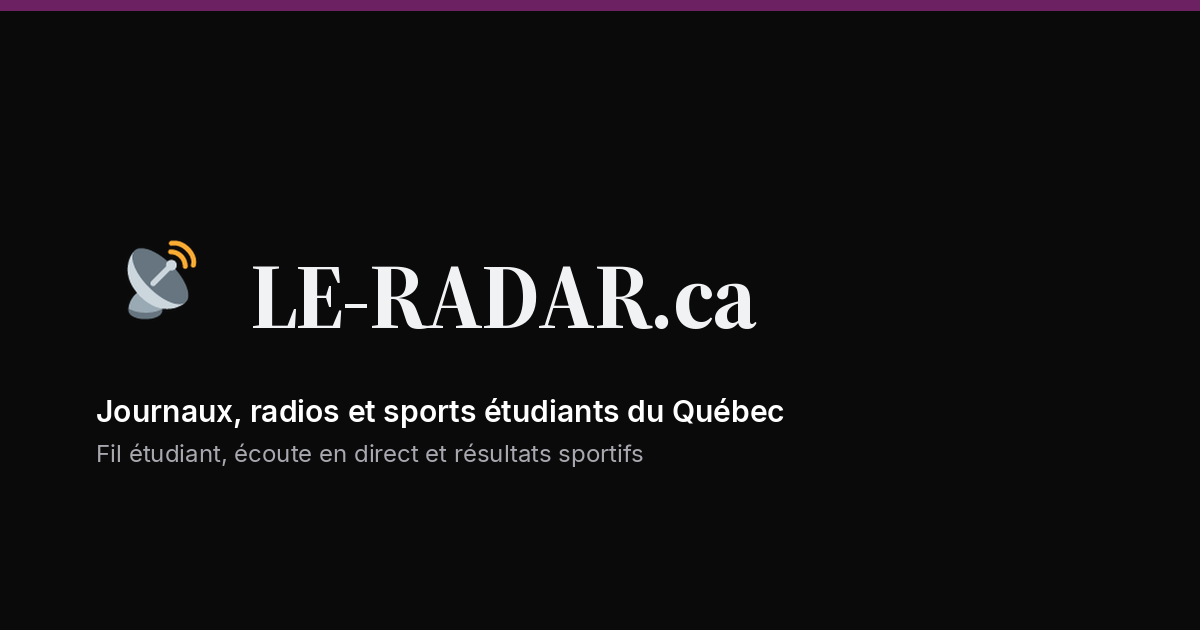
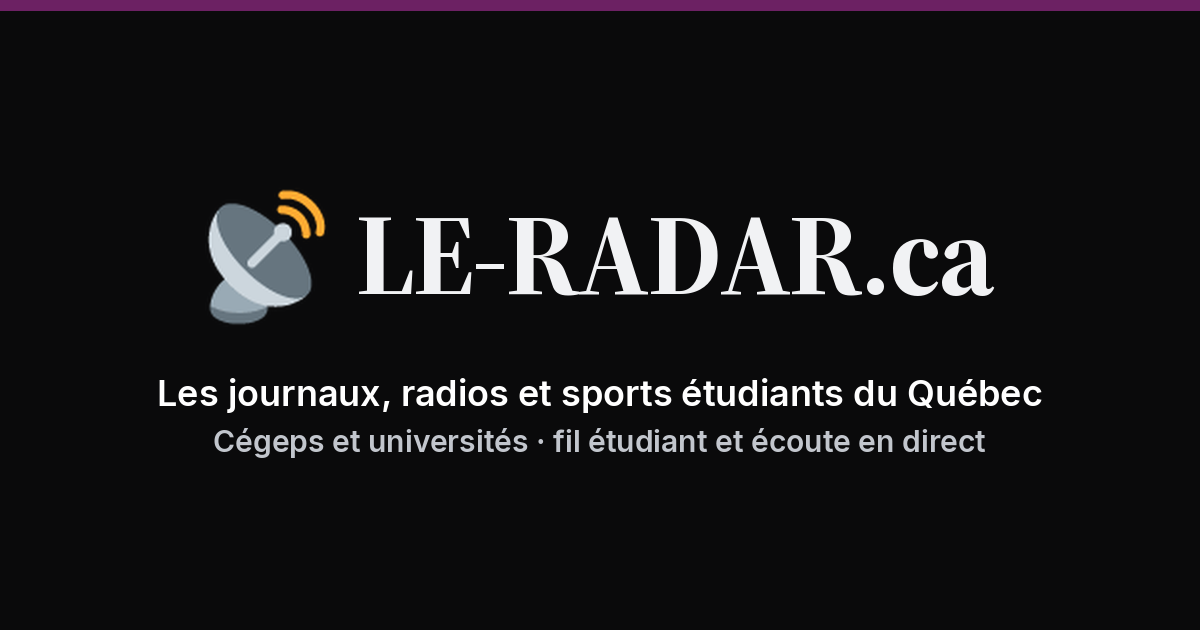
fix(og): center share card and restore campus line
The v=2 cover sat left with a thin last line, so iMessage previews
looked sparse. Center the lockup, keep the old slogan rhythm with
sports in the headline, and put cégeps et universités back on a
readable second line. Bust crawlers with ?v=3.

Changed region(s): [[0.0925, 0.3016, 0.8325, 0.5429], [0.0617, 0.6032, 0.8633, 0.754]]

diff --git a/index.html b/index.html
@@ -25,14 +25,14 @@
     <meta property="og:url" content="https://le-radar.ca/" />
     <meta property="og:title" content="LE-RADAR.ca — Journaux, radios et sports étudiants du Québec" />
     <meta property="og:description" content="Journaux, radios et sports étudiants des cégeps et universités du Québec, réunis en un seul endroit. Actualité, écoute en direct et résultats sportifs." />
-    <meta property="og:image" content="https://le-radar.ca/assets/og-cover.png?v=2" />
+    <meta property="og:image" content="https://le-radar.ca/assets/og-cover.png?v=3" />
     <meta property="og:image:width" content="1200" />
     <meta property="og:image:height" content="630" />
     <meta property="og:image:alt" content="LE-RADAR.ca — journaux, radios et sports étudiants du Québec" />
     <meta name="twitter:card" content="summary_large_image" />
     <meta name="twitter:title" content="LE-RADAR.ca — Journaux, radios et sports étudiants du Québec" />
     <meta name="twitter:description" content="Journaux, radios et sports étudiants des cégeps et universités du Québec, réunis en un seul endroit." />
-    <meta name="twitter:image" content="https://le-radar.ca/assets/og-cover.png?v=2" />
+    <meta name="twitter:image" content="https://le-radar.ca/assets/og-cover.png?v=3" />
 
     <link rel="manifest" href="manifest.json" />
     <link rel="icon" href="assets/icon-32.png?v=2" type="image/png" sizes="32x32" />

diff --git a/scripts/seo-pages-lib.js b/scripts/seo-pages-lib.js
@@ -1072,9 +1072,9 @@ ${alternate ? `    <link rel="alternate" hreflang="fr-CA" href="${escapeHtml(lan
     <meta property="og:url" content="${escapeHtml(canonical)}" />
     <meta property="og:title" content="${escapeHtml(title)}" />
     <meta property="og:description" content="${escapeHtml(description)}" />
-    <meta property="og:image" content="${siteBase}/assets/og-cover.png?v=2" />
+    <meta property="og:image" content="${siteBase}/assets/og-cover.png?v=3" />
     <meta name="twitter:card" content="summary_large_image" />
-    <meta name="twitter:image" content="${siteBase}/assets/og-cover.png?v=2" />
+    <meta name="twitter:image" content="${siteBase}/assets/og-cover.png?v=3" />
 
     <link rel="icon" href="${up}assets/icon-32.png" type="image/png" sizes="32x32" />
     <link rel="icon" href="${up}assets/icon.svg" type="image/svg+xml" />

diff --git a/scripts/generate-og-image.py b/scripts/generate-og-image.py
@@ -3,6 +3,8 @@
 
 Aligné sur le mât : Source Serif 4 Display + Inter, mot-symbole
 « LE-RADAR.ca » d’une seule couleur (pas de .ca pourpre).
+Lockup centré, accroche au rythme de l’ancienne carte
+(« Les journaux… ») avec la triade + cégeps et universités.
 Voir docs/identite-visuelle.md.
 
     python3 scripts/generate-og-image.py
@@ -24,11 +26,16 @@ PURPLE = (108, 33, 99, 255)
 # --ink du thème sombre (style.css), pas un blanc pur
 BRAND = (241, 242, 244, 255)
 WHITE = (255, 255, 255, 255)
-MUTED = (168, 168, 176, 255)
+# --ink-soft sombre : la sous-ligne doit rester lisible en aperçu iMessage
+SOFT = (194, 198, 205, 255)
 
 SERIF_DISPLAY = FONTS / "SourceSerif4Display-Bold.ttf"
 SANS = FONTS / "Inter-Regular.ttf"
 SANS_SEMI = FONTS / "Inter-SemiBold.ttf"
+
+BAR_H = 10
+SIDE = 72
+TRACK = -0.02
 
 
 def font(path: Path, size: int) -> ImageFont.FreeTypeFont:
@@ -39,6 +46,21 @@ def font(path: Path, size: int) -> ImageFont.FreeTypeFont:
 
 def text_width(draw: ImageDraw.ImageDraw, s: str, f: ImageFont.FreeTypeFont) -> int:
     return int(draw.textbbox((0, 0), s, font=f)[2])
+
+
+def text_size(draw: ImageDraw.ImageDraw, s: str, f: ImageFont.FreeTypeFont) -> tuple[int, int]:
+    l, t, r, b = draw.textbbox((0, 0), s, font=f)
+    return int(r - l), int(b - t)
+
+
+def tracked_width(text: str, fnt: ImageFont.FreeTypeFont, tracking_em: float) -> int:
+    extra = fnt.size * tracking_em
+    width = 0.0
+    for i, ch in enumerate(text):
+        width += fnt.getlength(ch)
+        if i < len(text) - 1:
+            width += extra
+    return int(round(width))
 
 
 def draw_tracked(
@@ -58,42 +80,129 @@ def draw_tracked(
     return int(x)
 
 
+def trim_mark(im: Image.Image, bg: tuple[int, int, int, int] = INK, thresh: int = 28) -> Image.Image:
+    """Retire le cadre sombre de l’icône pour coller le radar au mot-symbole."""
+    px = im.load()
+    w, h = im.size
+    min_x, min_y, max_x, max_y = w, h, 0, 0
+    limit = thresh * 3
+    found = False
+    for y in range(h):
+        for x in range(w):
+            r, g, b, a = px[x, y]
+            if a < 20:
+                continue
+            if abs(r - bg[0]) + abs(g - bg[1]) + abs(b - bg[2]) < limit:
+                continue
+            found = True
+            if x < min_x:
+                min_x = x
+            if y < min_y:
+                min_y = y
+            if x > max_x:
+                max_x = x
+            if y > max_y:
+                max_y = y
+    if not found:
+        return im
+    pad = 6
+    return im.crop(
+        (
+            max(0, min_x - pad),
+            max(0, min_y - pad),
+            min(w, max_x + 1 + pad),
+            min(h, max_y + 1 + pad),
+        )
+    )
+
+
+def content_offset_x(img: Image.Image) -> int:
+    """Écart (px) entre le centre du contenu et le centre du canevas."""
+    px = img.load()
+    min_x, max_x = W, 0
+    for y in range(BAR_H + 4, H):
+        for x in range(W):
+            r, g, b = px[x, y][:3]
+            if abs(r - INK[0]) + abs(g - INK[1]) + abs(b - INK[2]) > 36:
+                if x < min_x:
+                    min_x = x
+                if x > max_x:
+                    max_x = x
+    if max_x <= min_x:
+        return 0
+    return ((min_x + max_x) // 2) - (W // 2)
+
+
 def main() -> None:
     img = Image.new("RGBA", (W, H), INK)
     draw = ImageDraw.Draw(img)
 
     # Filet pourpre en haut — rappel de la marque, pas une deuxième couleur
     # dans le mot-symbole.
-    draw.rectangle((0, 0, W, 10), fill=PURPLE)
+    draw.rectangle((0, 0, W, BAR_H), fill=PURPLE)
 
-    logo_size = 132
-    logo_y = 214
-    logo_x = 96
-    if LOGO.exists():
-        logo = Image.open(LOGO).convert("RGBA").resize(
-            (logo_size, logo_size), Image.LANCZOS
-        )
-        img.alpha_composite(logo, (logo_x, logo_y))
-
-    # Mot-symbole = le titrage du mât : une fonte, une couleur, .ca inclus.
-    f_brand = font(SERIF_DISPLAY, 92)
     brand = "LE-RADAR.ca"
-    brand_x = logo_x + logo_size + 22
-    brand_y = logo_y + 18
-    draw_tracked(draw, (brand_x, brand_y), brand, f_brand, BRAND, -0.02)
+    # Rythme de l’ancienne carte (« Les journaux… ») + triade officielle.
+    tag = "Les journaux, radios et sports étudiants du Québec"
+    sub = "Cégeps et universités · fil étudiant et écoute en direct"
 
-    f_tag = font(SANS_SEMI, 30)
-    tag = "Journaux, radios et sports étudiants du Québec"
-    f_sub = font(SANS, 24)
-    sub = "Fil étudiant, écoute en direct et résultats sportifs"
-    max_text_w = W - logo_x - 48
-    if text_width(draw, tag, f_tag) > max_text_w or text_width(draw, sub, f_sub) > max_text_w:
+    f_brand = font(SERIF_DISPLAY, 116)
+    f_tag = font(SANS_SEMI, 36)
+    f_sub = font(SANS_SEMI, 30)
+
+    max_text_w = W - 2 * SIDE
+    if (
+        text_width(draw, tag, f_tag) > max_text_w
+        or text_width(draw, sub, f_sub) > max_text_w
+        or tracked_width(brand, f_brand, TRACK) > max_text_w
+    ):
         raise SystemExit("og-cover: accroche trop large — raccourcir le copy ou la fonte")
-    draw.text((logo_x, logo_y + logo_size + 46), tag, font=f_tag, fill=WHITE)
-    draw.text((logo_x, logo_y + logo_size + 92), sub, font=f_sub, fill=MUTED)
 
-    img.convert("RGB").save(OUT, "PNG", optimize=True)
-    print(f"✅ {OUT.relative_to(ROOT)} ({W}×{H})")
+    logo_h = 140
+    logo = None
+    logo_w = 0
+    if LOGO.exists():
+        raw = trim_mark(Image.open(LOGO).convert("RGBA"))
+        scale = logo_h / raw.height
+        logo_w = max(1, int(round(raw.width * scale)))
+        logo = raw.resize((logo_w, logo_h), Image.LANCZOS)
+
+    brand_w, brand_h = tracked_width(brand, f_brand, TRACK), text_size(draw, brand, f_brand)[1]
+    gap = 28
+    lockup_w = (logo_w + gap + brand_w) if logo is not None else brand_w
+    lockup_h = max(logo_h, brand_h)
+
+    tag_w, tag_h = text_size(draw, tag, f_tag)
+    sub_w, sub_h = text_size(draw, sub, f_sub)
+    after_lockup = 44
+    after_tag = 16
+    stack_h = lockup_h + after_lockup + tag_h + after_tag + sub_h
+
+    top = BAR_H + max(0, (H - BAR_H - stack_h) // 2)
+    lockup_x = (W - lockup_w) // 2
+
+    if logo is not None:
+        logo_y = top + (lockup_h - logo_h) // 2
+        img.alpha_composite(logo, (lockup_x, logo_y))
+        brand_x = lockup_x + logo_w + gap
+    else:
+        brand_x = lockup_x
+
+    brand_box = draw.textbbox((0, 0), brand, font=f_brand)
+    brand_y = top + (lockup_h - brand_h) // 2 - brand_box[1]
+    draw_tracked(draw, (brand_x, brand_y), brand, f_brand, BRAND, TRACK)
+
+    tag_y = top + lockup_h + after_lockup
+    sub_y = tag_y + tag_h + after_tag
+    draw.text(((W - tag_w) // 2, tag_y), tag, font=f_tag, fill=WHITE)
+    draw.text(((W - sub_w) // 2, sub_y), sub, font=f_sub, fill=SOFT)
+
+    rgb = img.convert("RGB")
+    shift = content_offset_x(rgb)
+    if abs(shift) > 14:
+        raise SystemExit(f"og-cover: lockup hors centre ({shift:+d} px)")
+    rgb.save(OUT, "PNG", optimize=True)
+    print(f"✅ {OUT.relative_to(ROOT)} ({W}×{H}, centre {shift:+d} px)")
 
 
 if __name__ == "__main__":

diff --git a/CHANGELOG.md b/CHANGELOG.md
@@ -25,6 +25,7 @@ et respecte le [versionnage sémantique](https://semver.org/lang/fr/).
 
 - Edge (et tout Chromium) sur un bureau tactile — ex. IdeaPad Flex 5 + Philips 1920 : `pointer: coarse` classait la session comme un téléphone. La carte proposait « Sur l’écran d’accueil » au lieu d’installer la PWA fenêtre. Un viewport ≥ 1024 px hors iOS/Android est du bureau ; le titre spatial mobile (focus-group B) reste pour les vrais téléphones.
 - Grand écran (shell E, ≥ 1281 px) : le carré du synthétiseur restait un rectangle vide — le texte (institution, poste, slogan) était bien écrit, mais le CSS le masquait tant que `is-dial-ready` n’était pas posé. La voie wide retournait avant cet appel. Visible sur l’accueil, le kit média et les autres pages.
+- La carte de partage (`og-cover.png`) était calée à gauche et la sous-ligne trop pâle : lockup centré, slogan au rythme de l’ancienne carte (« Les journaux, radios et sports étudiants du Québec ») et retour de « Cégeps et universités » sur une ligne lisible. Cache `?v=3`.
 - L’image de partage (`og-cover.png`) disait encore « journaux et radios » sans les sports : l’aperçu de lien (Messages, Telegram, etc.) restait sur l’ancienne accroche alors que le site porte la triade. Mot-symbole aligné sur le mât (Source Serif 4 Display, « LE-RADAR.ca » d’une seule couleur). Sous-ligne : « résultats sportifs ». Cache `?v=2` pour forcer le rechargement chez les robots.
 - iPad portrait (768–834 px) : le magazine deux colonnes s’affichait sans équilibrer **En bref**. La graine bureau (~10 brèves) dépassait les vedettes et laissait un vide sous la colonne de gauche. L’équilibre (trim + extraits mid) suit maintenant le même seuil 768 px que le CSS.
 
